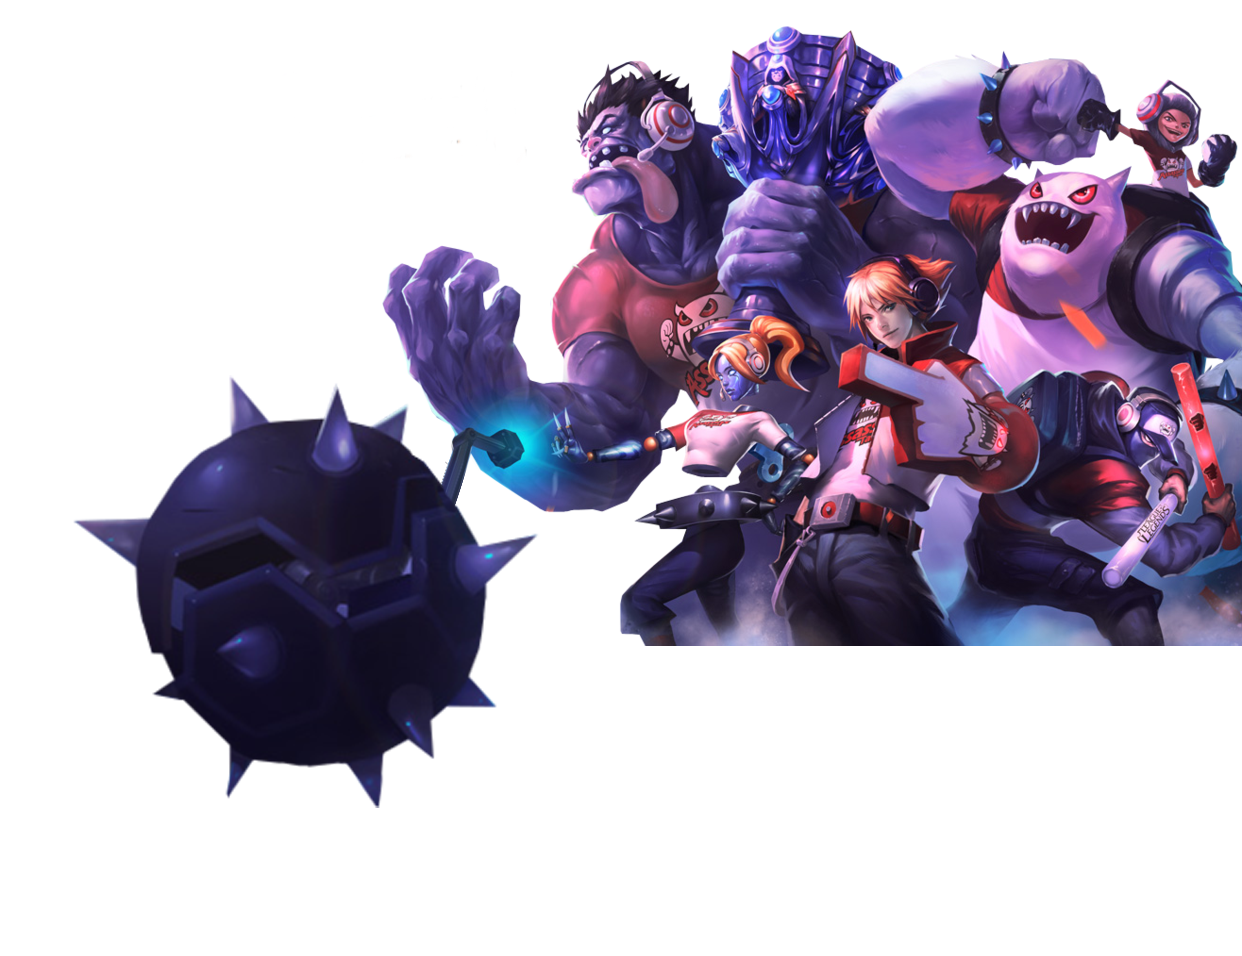
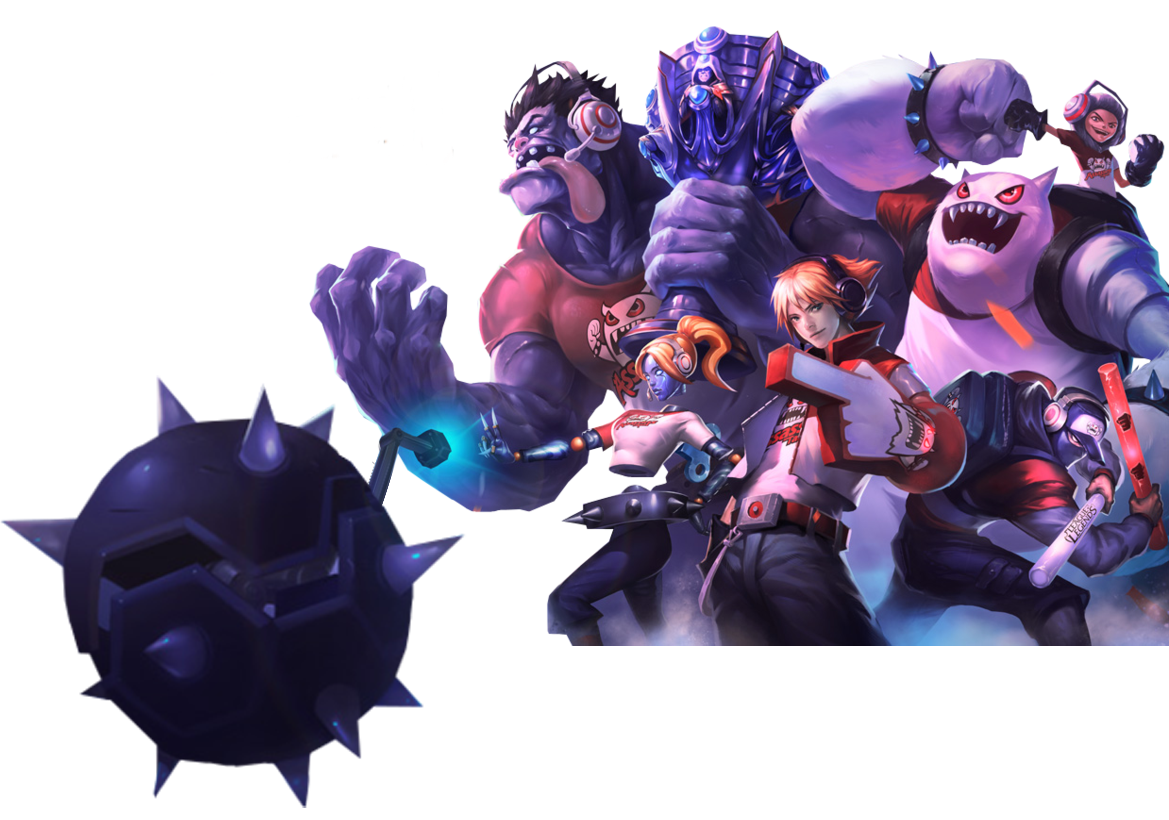
hero edited

diff --git a/styles/style.css b/styles/style.css
@@ -196,10 +196,20 @@ text-decoration: underline;
 .hero-ul-div {
     line-height: 3rem;
 }
+/* .hero-image-div {
+    width: 50%;
+    display: flex;
+    align-items: end;
+} */
 .hero-image-div {
     width: 50%;
     display: flex;
     align-items: end;
+    position: relative;
+}
+.hero-img {
+    position: absolute;
+    bottom: -15%;
 }
 
 

diff --git a/index.html b/index.html
@@ -52,7 +52,7 @@
                 </div>
             </div>
             <div class="hero-image-div">
-                <img src="./assets/hero 2.png" alt="">
+                <img src="./assets/hero 3.png" alt="" class="hero-img">
             </div>
         </div>
     </header>
